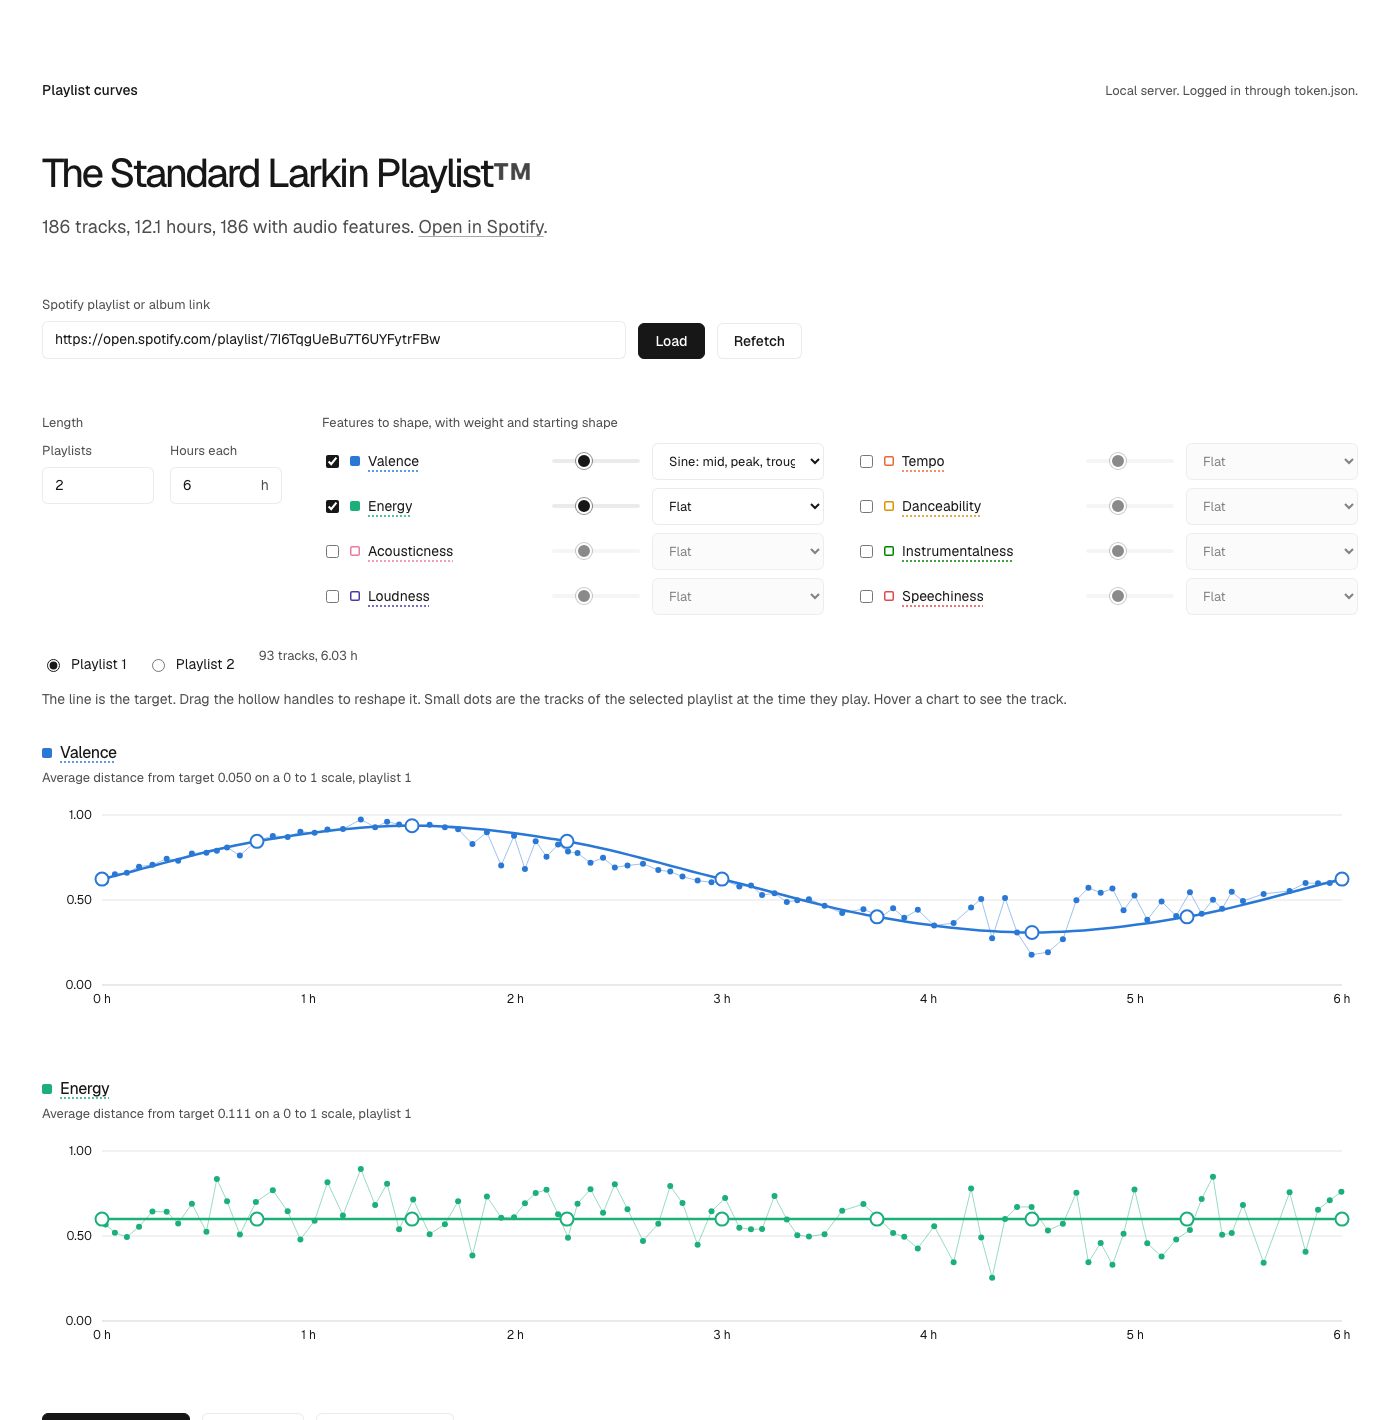
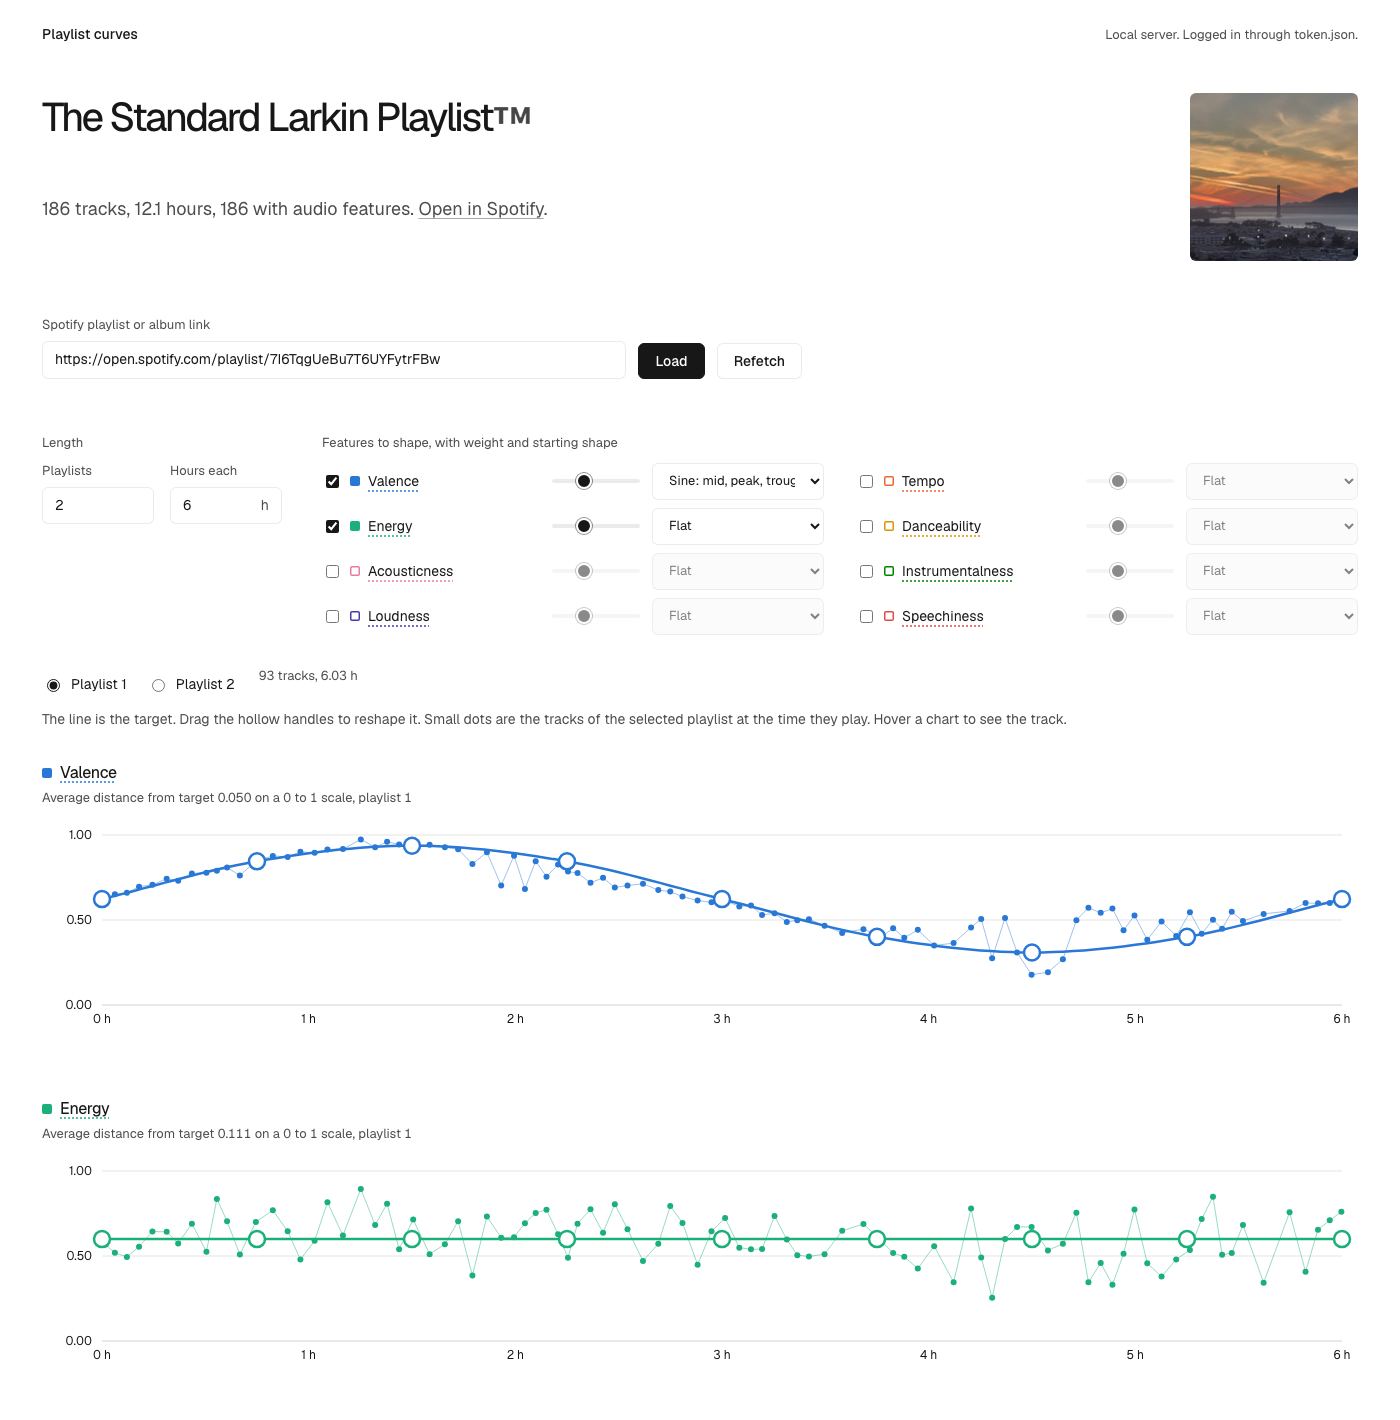
Show the playlist cover top right, tighter masthead, and make curve handles grabbable again
The hover crosshair sat above the handles and swallowed the pointer press;
it and the track dots now ignore pointer events, and handles are larger.

diff --git a/index.html b/index.html
@@ -13,7 +13,10 @@
   /* Page-owned layout. Only vbg-custom-* / vbg-viz-* selectors, only public tokens. */
   .vbg-custom-page [hidden] { display: none !important; }
   /* Full-width editor: the charts want every pixel, so drop the shell's fixed content width. */
-  .vbg-custom-page { width: calc(100% - 2 * clamp(24px, 3vw, 56px)); max-width: none; }
+  .vbg-custom-page { width: calc(100% - 2 * clamp(24px, 3vw, 56px)); max-width: none; padding-block-start: var(--vbg-space-6); }
+  /* Cover art: top right, under the masthead's login line, level with the title. */
+  .vbg-custom-cover { grid-column: 10 / -1; grid-row: 2 / span 2; justify-self: end; align-self: start; width: clamp(112px, 12vw, 192px); aspect-ratio: 1; object-fit: cover; border-radius: var(--vbg-radius-small); margin-block-start: clamp(32px, 4vw, 48px); }
+  @media (max-width: 760px) { .vbg-custom-cover { grid-column: 1 / -1; grid-row: auto; justify-self: start; width: 112px; margin-block-start: var(--vbg-space-4); } }
   /* One fixed color per feature, used wherever that feature appears: row, chart, tooltip. */
   .vbg-custom-page {
     --pc-valence: light-dark(#2a78d6, #3987e5); --pc-tempo: light-dark(#eb6834, #d95926);
@@ -47,7 +50,8 @@
   @media (max-width: 760px) {
     .vbg-custom-controls { grid-template-columns: minmax(0, 1fr); }
     .vbg-custom-feature-list { grid-template-columns: minmax(0, 1fr); }
-    .vbg-custom-feature { grid-template-columns: minmax(0, 1fr) 64px minmax(0, 132px); }
+    .vbg-custom-feature { grid-template-columns: minmax(0, 1fr) 52px 104px; gap: var(--vbg-space-2); }
+    .vbg-custom-feature select { padding-inline: var(--vbg-space-2); }
   }
 
   .vbg-custom-playlists { display: flex; flex-wrap: wrap; align-items: center; gap: var(--vbg-space-3) var(--vbg-space-6); }
@@ -55,11 +59,12 @@
   .vbg-custom-playlists label { display: inline-flex; align-items: center; gap: var(--vbg-space-2); color: var(--vbg-text-primary); font-size: var(--vbg-type-compact); line-height: var(--vbg-leading-compact); }
   .vbg-custom-panels { display: grid; gap: var(--vbg-space-8); }
   .vbg-custom-panels svg { display: block; width: 100%; height: 210px; touch-action: none; }
-  .vbg-viz-track { fill: var(--pc-color); }
-  .vbg-viz-track-path { fill: none; stroke: var(--pc-color); stroke-width: 1; opacity: .45; vector-effect: non-scaling-stroke; }
-  .vbg-viz-target { stroke: var(--pc-color); stroke-width: 2.5; }
-  .vbg-viz-handle { stroke: var(--pc-color); cursor: ns-resize; }
-  .vbg-viz-handle:hover, .vbg-viz-handle[data-active] { stroke-width: 3; }
+  .vbg-viz-track { fill: var(--pc-color); pointer-events: none; }
+  .vbg-viz-track-path { fill: none; stroke: var(--pc-color); stroke-width: 1; opacity: .45; vector-effect: non-scaling-stroke; pointer-events: none; }
+  .vbg-viz-target { stroke: var(--pc-color); stroke-width: 2.5; pointer-events: none; }
+  .vbg-viz-cross { pointer-events: none; }
+  .vbg-viz-handle { stroke: var(--pc-color); stroke-width: 2.5; cursor: ns-resize; }
+  .vbg-viz-handle:hover, .vbg-viz-handle[data-active] { stroke-width: 4; }
   .vbg-viz-hit { fill: transparent; cursor: ns-resize; }
 
   .vbg-custom-tip { position: fixed; z-index: 5; max-width: 320px; padding: var(--vbg-space-3); background: var(--vbg-surface-primary); color: var(--vbg-text-primary); border: 1px solid var(--vbg-border-default); border-radius: var(--vbg-radius-small); font-size: var(--vbg-type-compact); line-height: var(--vbg-leading-compact); pointer-events: none; }
@@ -89,6 +94,7 @@
     </div>
     <h1 class="vbg-title" id="title">Reorder a playlist so its mood follows a curve</h1>
     <p class="vbg-lede" id="subtitle">Paste a Spotify playlist or album link. Draw a shape for valence, tempo or energy over time and the tracks are reordered to follow it. Export the result as CSV, as URIs, or as new playlists on your account.</p>
+    <img class="vbg-custom-cover" id="cover" alt="" hidden>
   </header>
 
   <main id="main" class="vbg-custom-main">
@@ -374,8 +380,8 @@ function drawPanel(svg, f) {
   // handles
   f.points.forEach((u, i) => {
     const cx = X(i / (NPOINTS - 1) * T), cy = Y(u);
-    const hit = el('rect', { class: 'vbg-viz-hit', x: cx - 14, y: y0 - 6, width: 28, height: y1 - y0 + 12 }, svg);
-    const h = el('circle', { class: 'vbg-data-point vbg-viz-handle', cx, cy, r: 6.5 }, svg);
+    const hit = el('rect', { class: 'vbg-viz-hit', x: cx - 18, y: y0 - 8, width: 36, height: y1 - y0 + 16 }, svg);
+    const h = el('circle', { class: 'vbg-data-point vbg-viz-handle', cx, cy, r: 8 }, svg);
     const start = ev => {
       ev.preventDefault(); h.setAttribute('data-active', ''); hideTip();
       const move = e => {
@@ -556,17 +562,17 @@ function parseLink(link) {
 const rowOf = t => ({ id: t.id, uri: t.uri, title: t.name, artist: t.artists.map(a => a.name).join(', '), duration: t.duration_ms });
 async function fetchTracksDirect(link) {
   const { kind, id } = parseLink(link), tracks = [];
-  let name, url;
+  let name, image, url;
   if (kind === 'playlist') {
-    name = (await sp(`playlists/${id}?fields=name`)).name;
+    const meta = await sp(`playlists/${id}?fields=name,images`); name = meta.name; image = (meta.images || [])[0]?.url;
     url = `https://api.spotify.com/v1/playlists/${id}/items?limit=100&fields=next,items(item(id,uri,name,duration_ms,artists(name)))`;
     while (url) { const page = await sp(url); for (const it of page.items) if (it.item && it.item.id) tracks.push(rowOf(it.item)); url = page.next; }
   } else {
-    name = (await sp(`albums/${id}`)).name;
+    const meta = await sp(`albums/${id}`); name = meta.name; image = (meta.images || [])[0]?.url;
     url = `https://api.spotify.com/v1/albums/${id}/tracks?limit=50`;
     while (url) { const page = await sp(url); for (const t of page.items) if (t && t.id) tracks.push(rowOf(t)); url = page.next; }
   }
-  return { name, kind, id, url: `https://open.spotify.com/${kind}/${id}`, tracks };
+  return { name, image, kind, id, url: `https://open.spotify.com/${kind}/${id}`, tracks };
 }
 
 // --- ReccoBeats (mirror of Spotify's audio features) from the browser, cached in localStorage ---
@@ -679,6 +685,7 @@ async function load(refetch = false) {
     pool = data.tracks.filter(t => t.features); unplaced = data.tracks.filter(t => !t.features);
     const total = data.tracks.reduce((s, t) => s + t.duration, 0) / 3.6e6;
     $('#title').textContent = data.name;
+    const cover = $('#cover'); cover.hidden = !data.image; if (data.image) { cover.src = data.image; cover.alt = `Cover of ${data.name}`; }
     $('#subtitle').innerHTML = `${data.tracks.length} tracks, ${total.toFixed(1)} hours, ${pool.length} with audio features. <a href="${data.url}" target="_blank" rel="noopener">Open in Spotify</a>.`;
     document.title = data.name + ', playlist curves';
     // default length: whole thing in one go, rounded to the half hour, unless the user set something

diff --git a/api/tracks.js b/api/tracks.js
@@ -41,17 +41,17 @@ module.exports = async (req, res) => {
     if (!link) return res.status(400).json({ error: 'missing link' });
     const { kind, id } = parseLink(link);
     const token = await appToken(), tracks = [];
-    let name, url;
+    let name, image, url;
     if (kind === 'playlist') {
-      name = (await sp(`https://api.spotify.com/v1/playlists/${id}?fields=name`, token)).name;
+      const meta = await sp(`https://api.spotify.com/v1/playlists/${id}?fields=name,images`, token); name = meta.name; image = (meta.images || [])[0]?.url;
       url = `https://api.spotify.com/v1/playlists/${id}/items?limit=100&fields=next,items(item(id,uri,name,duration_ms,artists(name)))`;
       while (url) { const page = await sp(url, token); for (const it of page.items) if (it.item && it.item.id) tracks.push(rowOf(it.item)); url = page.next; }
     } else {
-      name = (await sp(`https://api.spotify.com/v1/albums/${id}`, token)).name;
+      const meta = await sp(`https://api.spotify.com/v1/albums/${id}`, token); name = meta.name; image = (meta.images || [])[0]?.url;
       url = `https://api.spotify.com/v1/albums/${id}/tracks?limit=50`;
       while (url) { const page = await sp(url, token); for (const t of page.items) if (t && t.id) tracks.push(rowOf(t)); url = page.next; }
     }
-    res.status(200).json({ name, kind, id, url: `https://open.spotify.com/${kind}/${id}`, tracks });
+    res.status(200).json({ name, image, kind, id, url: `https://open.spotify.com/${kind}/${id}`, tracks });
   } catch (e) {
     const status = e.status === 404 ? 404 : 400;
     res.status(status).json({ error: e.status === 404 ? 'Not found. Is the playlist public?' : e.message });

diff --git a/spotify_sine.py b/spotify_sine.py
@@ -120,7 +120,7 @@ def fetch_tracks(token, kind, item_id):
     H = {"Authorization": "Bearer " + token}
     tracks = []
     if kind == "playlist":
-        meta = http(f"https://api.spotify.com/v1/playlists/{item_id}?fields=name", headers=H)
+        meta = http(f"https://api.spotify.com/v1/playlists/{item_id}?fields=name,images", headers=H)
         url = (f"https://api.spotify.com/v1/playlists/{item_id}/items?limit=100"
                "&fields=next,items(item(id,uri,name,duration_ms,artists(name)))")
         while url:
@@ -145,7 +145,8 @@ def fetch_tracks(token, kind, item_id):
         raise ValueError("unsupported kind " + kind)
     print(f"fetched {len(tracks)} tracks from {kind} '{meta['name']}' "
           f"({sum(t['duration'] for t in tracks)/3.6e6:.2f} h)")
-    return {"name": meta["name"], "kind": kind, "id": item_id, "tracks": tracks}
+    image = (meta.get("images") or [{}])[0].get("url")
+    return {"name": meta["name"], "image": image, "kind": kind, "id": item_id, "tracks": tracks}
 
 
 def fetch_playlist(token, playlist_id):

diff --git a/local_server.py b/local_server.py
@@ -19,7 +19,7 @@ CACHE = os.path.join(HERE, "cache"); os.makedirs(CACHE, exist_ok=True)
 def load_data(link, refetch=False):
     kind, item_id = ss.parse_link(link or CFG.get("playlist_id", ""))
     cache_f = os.path.join(CACHE, f"{kind}_{item_id}.json")
-    if refetch or not os.path.exists(cache_f):
+    if refetch or not os.path.exists(cache_f) or "image" not in json.load(open(cache_f)):  # older caches lack the cover
         tok = ss.auth(CFG["client_id"])
         d = ss.fetch_tracks(tok, kind, item_id)
         json.dump(d, open(cache_f, "w"))
